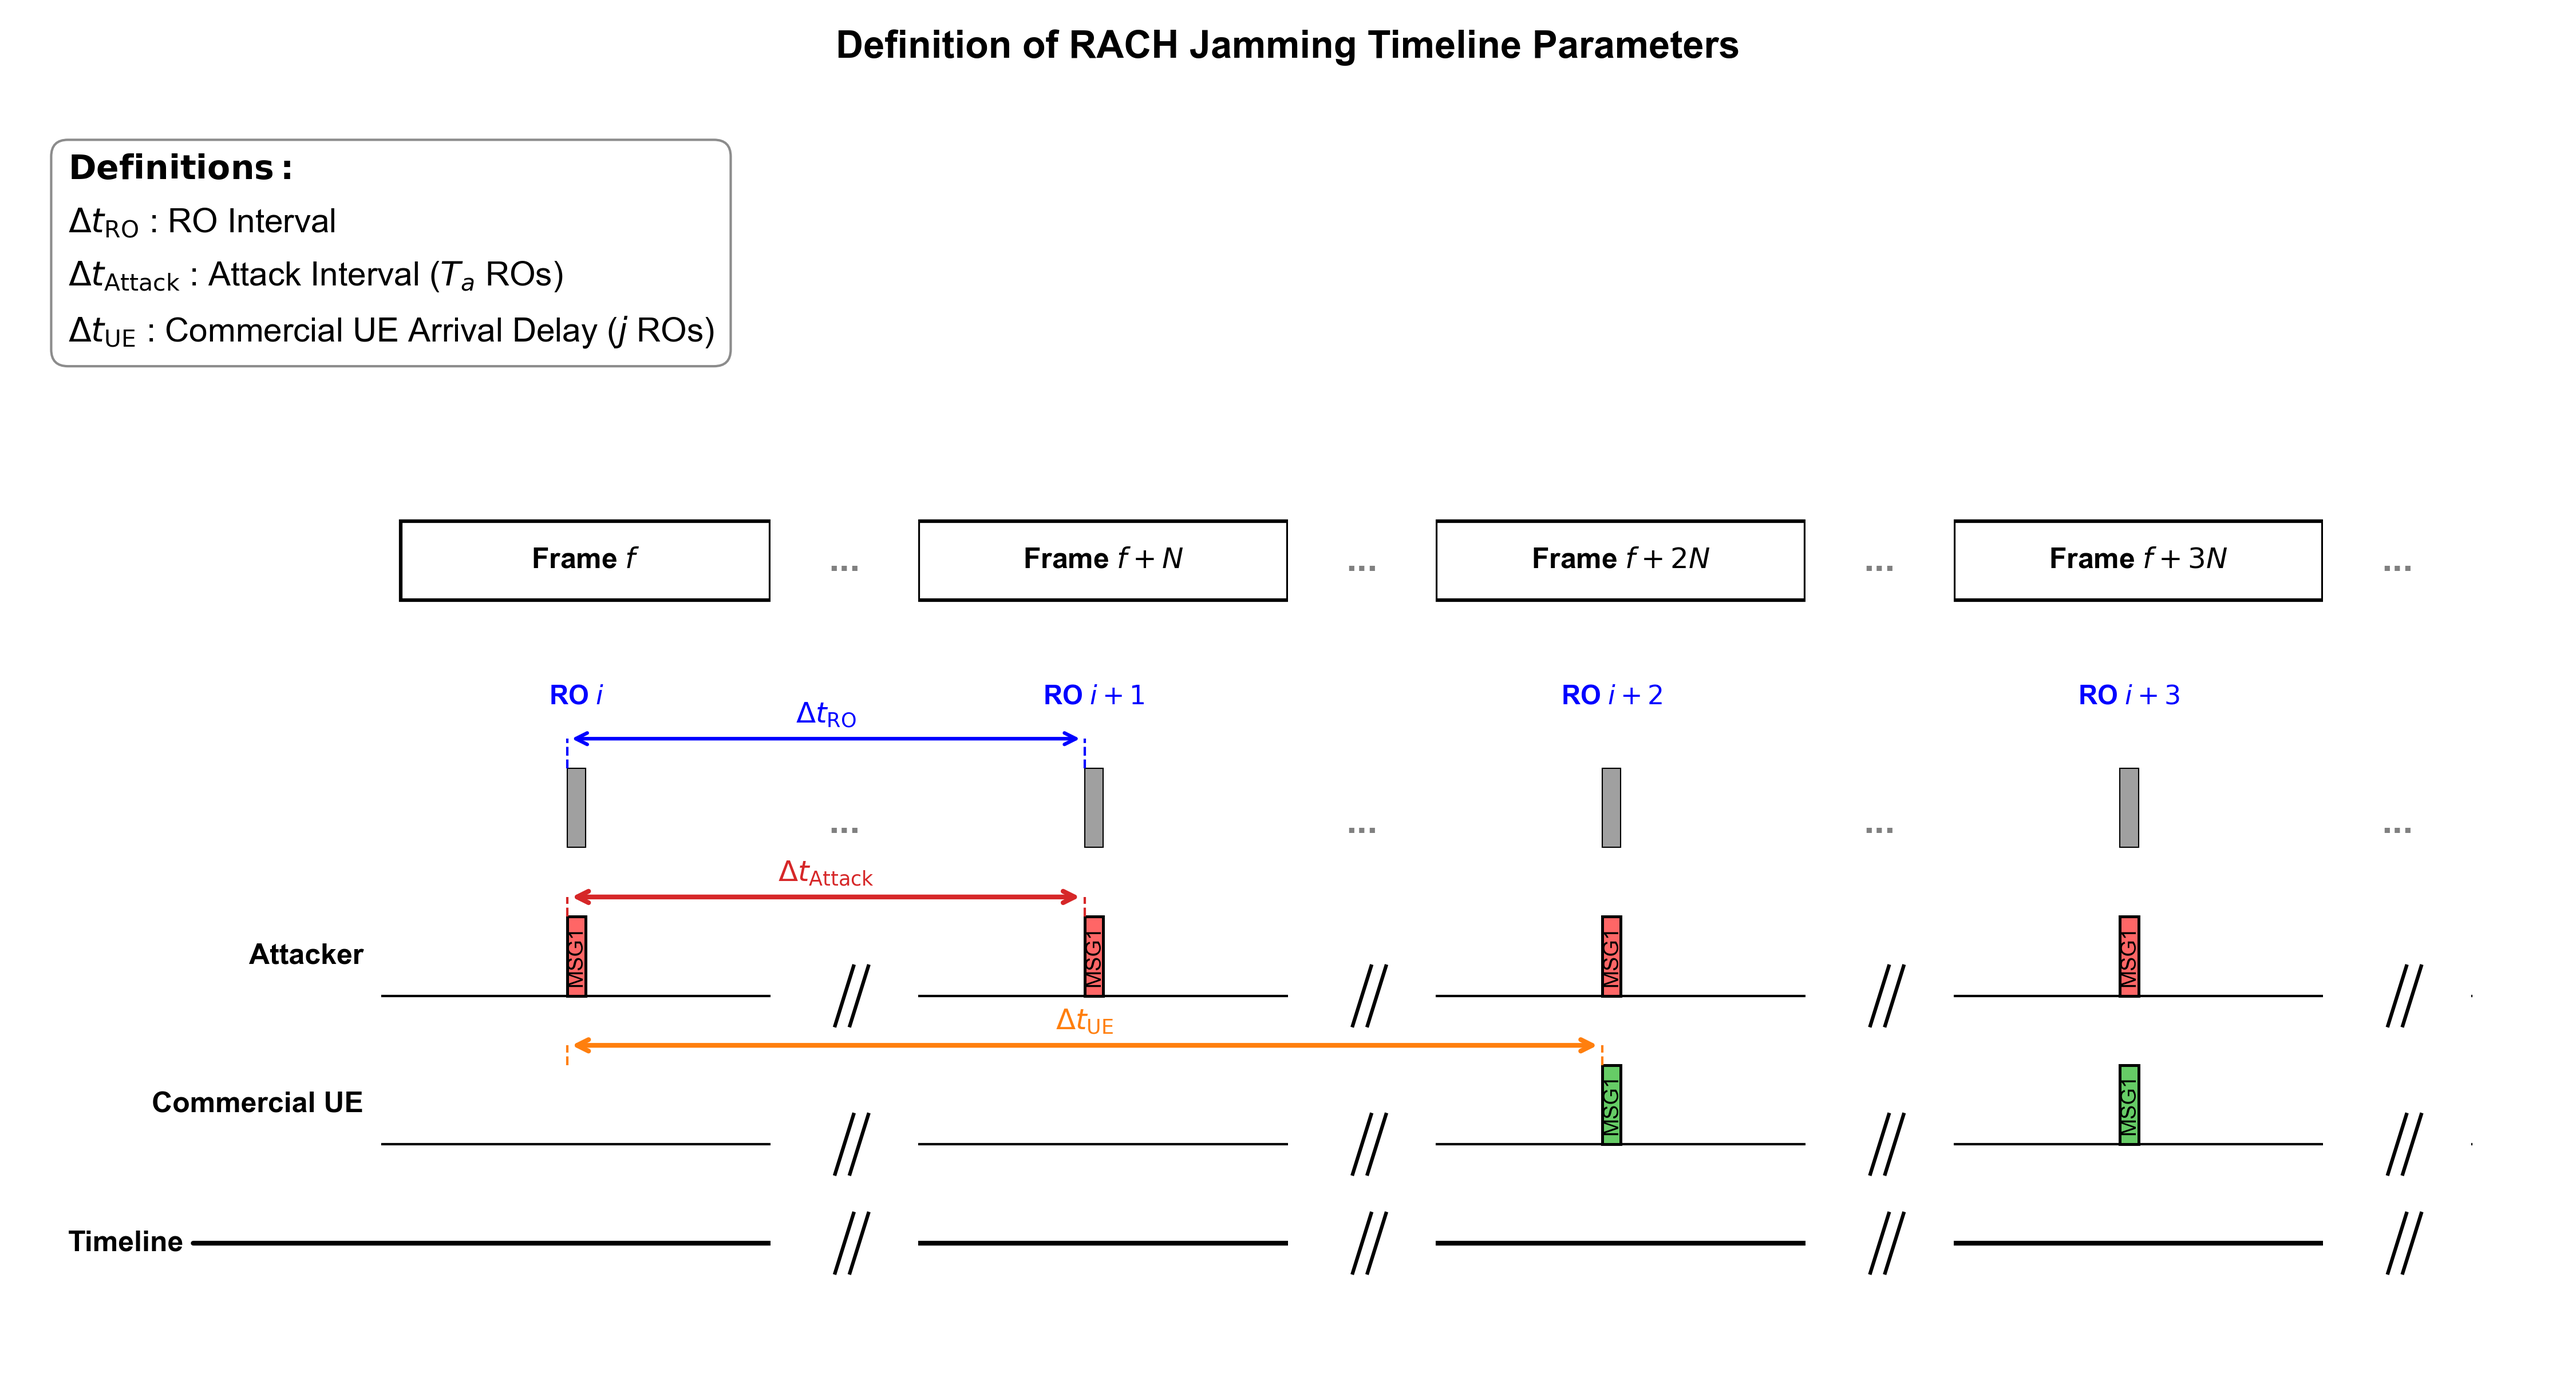
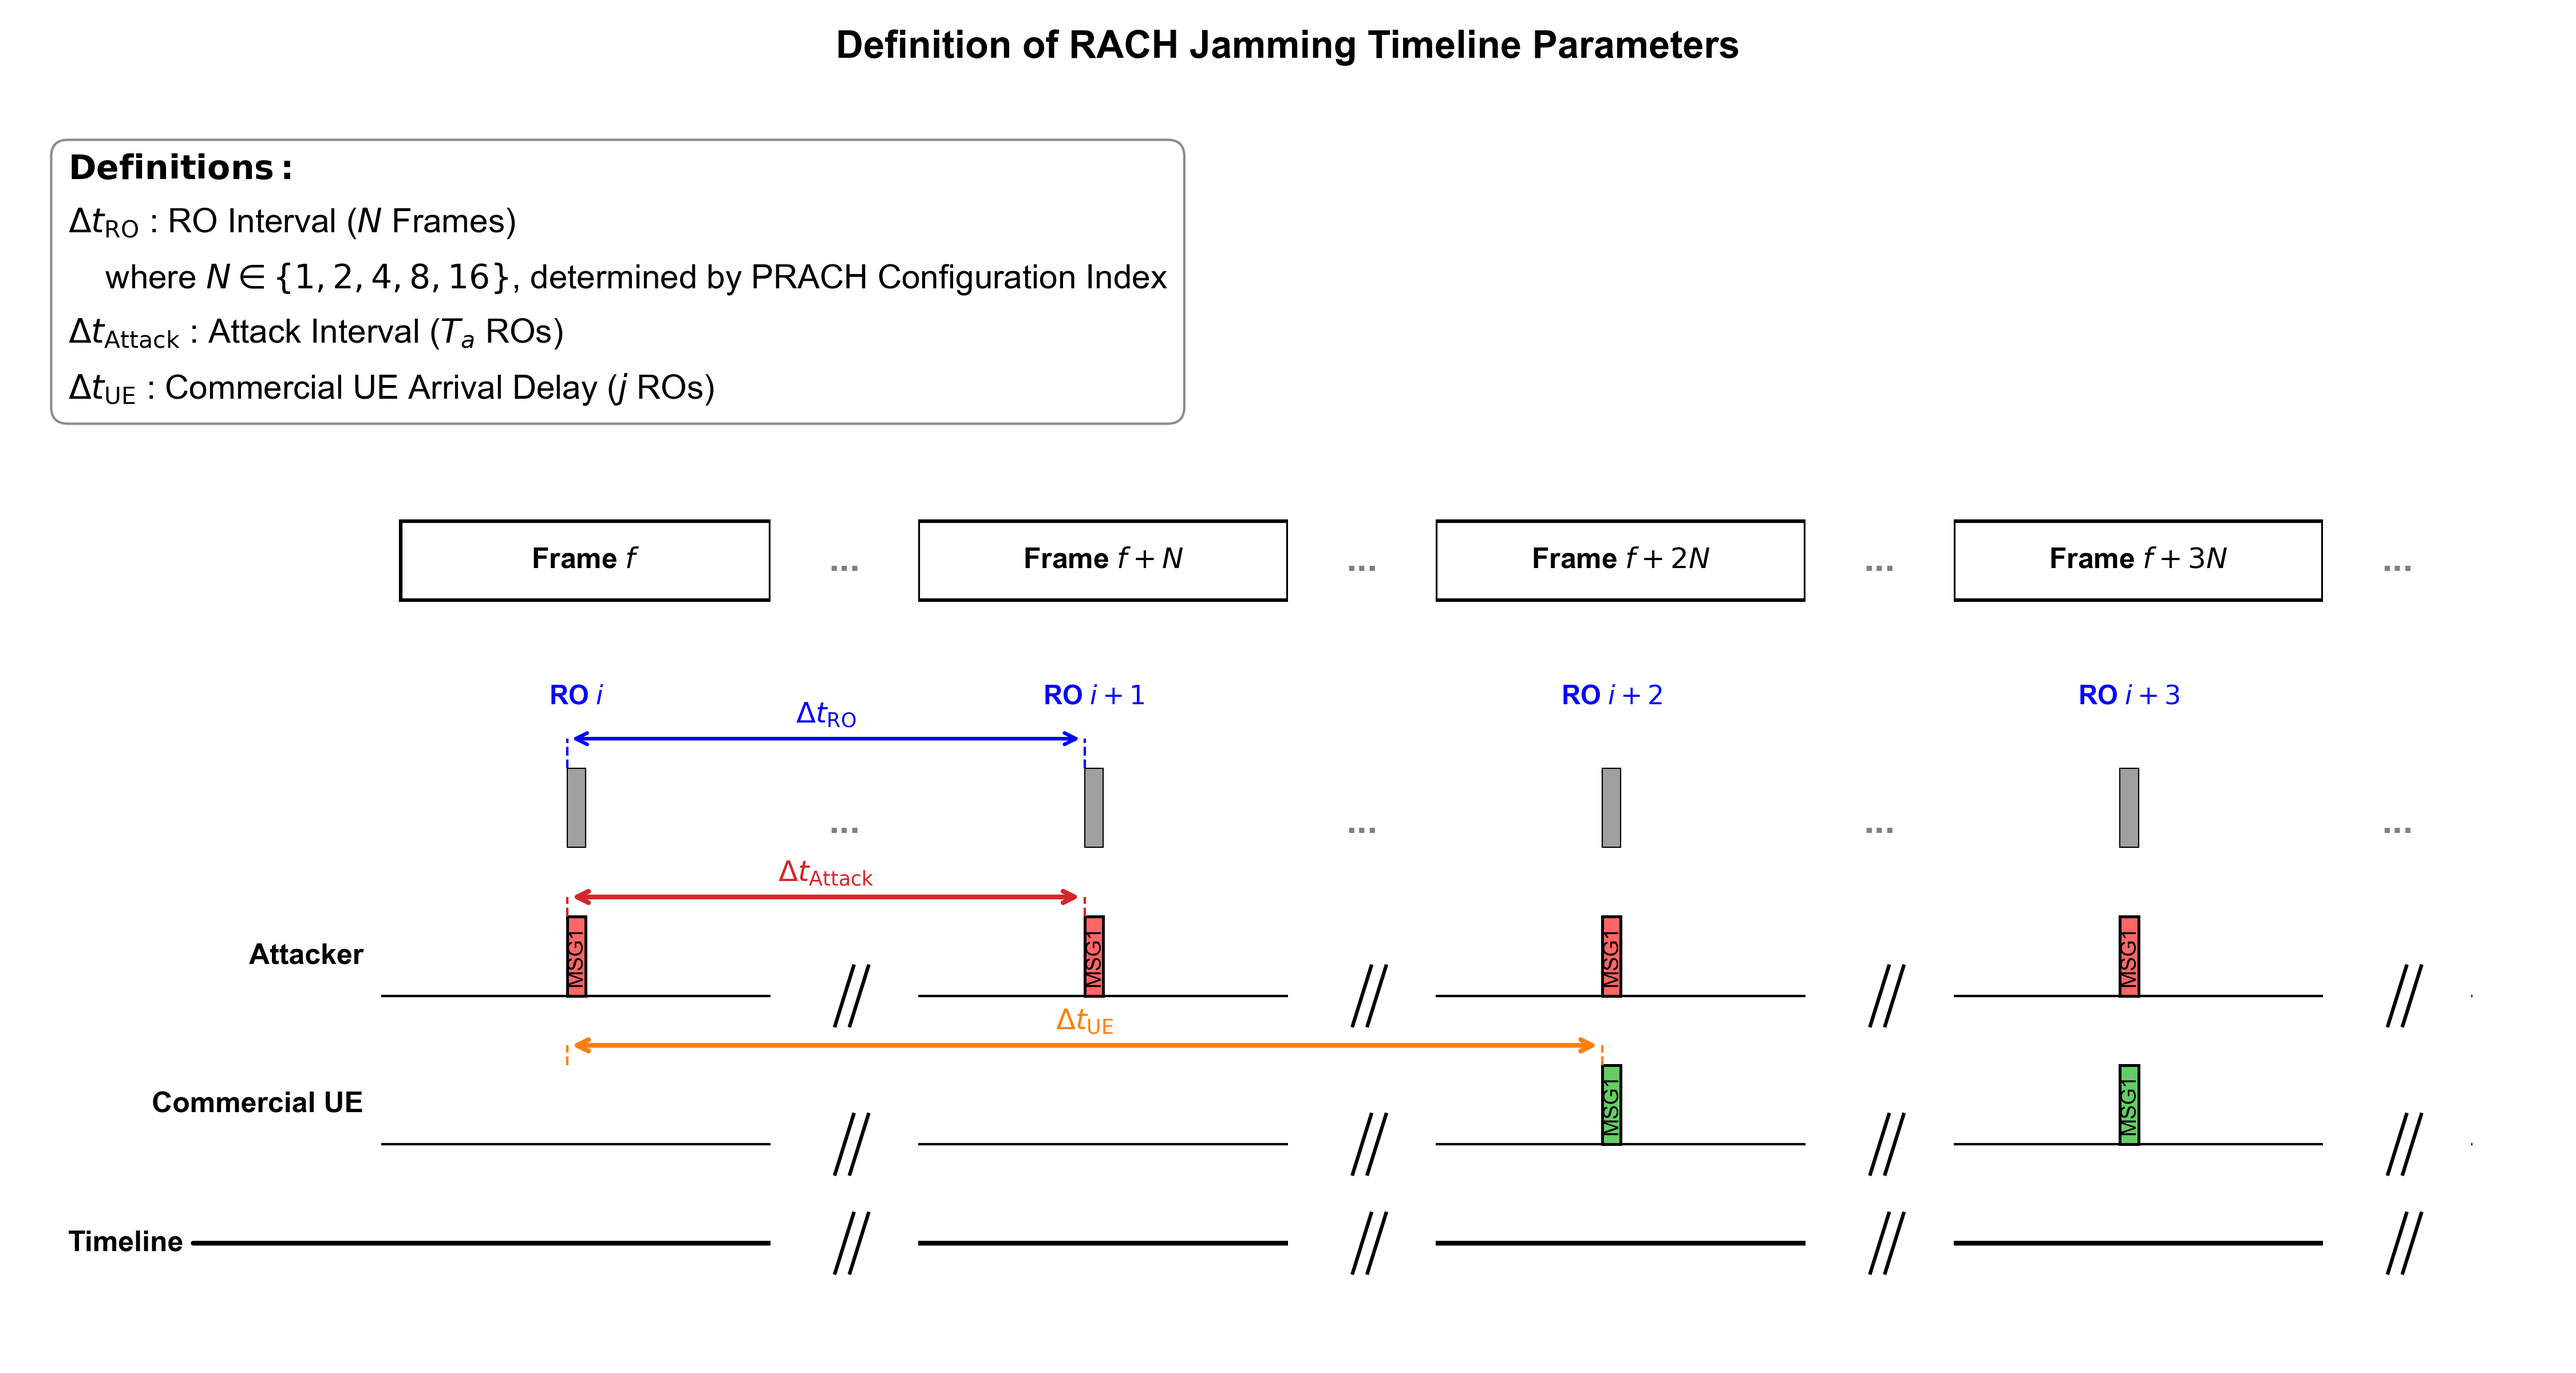
add: plot figure code 5

Changed region(s): [[0.0311, 0.1562, 0.4667, 0.3125]]

diff --git a/0408/RO-draw3.py b/0408/RO-draw3.py
@@ -1,0 +1,160 @@
+import matplotlib.pyplot as plt
+import matplotlib.patches as patches
+import numpy as np
+
+# 設置字體與樣式
+plt.rcParams['font.family'] = 'sans-serif'
+plt.rcParams['font.sans-serif'] = ['Arial', 'Liberation Sans']
+plt.rcParams['font.size'] = 12
+
+# --- 參數設定 ---
+display_ROs = 5  # 我們改為畫 5 個連續的 RO 塊
+ro_width = 1.0
+gap_width = 3.0  # RO 與 RO 之間的極小留白
+visual_stride = ro_width + gap_width
+
+# 預設繪圖內部依靠這些變數安排位置
+Ta = 1
+j = 2   
+
+fig, ax = plt.subplots(figsize=(10, 5))
+
+# ==========================================
+# 1. 繪製最上層：僅保留 RO 塊 (完全移除 Frame)
+# ==========================================
+y_slot = 3.0
+
+ro_positions_logical = []
+gap_centers = []
+
+for k in range(display_ROs):
+    visual_s = k * visual_stride
+    
+    # 計算這個 RO 右側 Gap 的中心點
+    cx = visual_s + ro_width + gap_width / 2
+    gap_centers.append(cx)
+    
+    # 畫出代表 RO 的方塊 (依需求加高至 1.2)
+    ax.add_patch(patches.Rectangle((visual_s, y_slot), ro_width, 1.2, facecolor='#a0a0a0', edgecolor='black', lw=1.0))
+    
+    # 依賴 UE 出現的設定作為原點 i，而不是左邊第一個框
+    i_index = k - j
+    ro_positions_logical.append((i_index, visual_s))
+    if i_index == 0:
+        ro_label = r'RO $i$'
+    elif i_index < 0:
+        ro_label = rf'RO $i-{abs(i_index)}$'
+    else:
+        ro_label = rf'RO $i+{i_index}$'
+        
+    ax.text(visual_s + ro_width/2, y_slot + 2.1, ro_label, 
+            ha='center', va='bottom', color='blue', fontweight='bold', fontsize=11)
+
+ro_logical_dict = {i: vis_s for i, vis_s in ro_positions_logical}
+
+# RO Interval annotation (以第一個和第二個塊為主)
+first_idx = -j
+next_idx = -j + 1
+if first_idx in ro_logical_dict and next_idx in ro_logical_dict:
+    pos_start = ro_logical_dict[first_idx]
+    pos_end = ro_logical_dict[next_idx]
+    # 箭頭標示推昇至方塊上方 (1.5)
+    ax.annotate('', xy=(pos_start, y_slot+1.5), xytext=(pos_end, y_slot+1.5),
+                arrowprops=dict(arrowstyle='<->', color='blue', lw=1.5))
+    ax.text((pos_start + pos_end)/2, y_slot+1.6, r'RO interval', 
+            ha='center', va='bottom', color='blue', fontweight='bold')
+    ax.plot([pos_start, pos_start], [y_slot+1.2, y_slot+1.5], ls='--', color='blue', lw=1)
+    ax.plot([pos_end, pos_end], [y_slot+1.2, y_slot+1.5], ls='--', color='blue', lw=1)
+
+# ==========================================
+# 2. 繪製 Attacker 排程 
+# ==========================================
+max_visual = (display_ROs - 1) * visual_stride + ro_width
+
+y_atk = 1.5
+# 第一底線 (Attacker)
+ax.plot([-1, max_visual + gap_width], [y_atk, y_atk], color='black', lw=1, zorder=1)
+ax.text(-2, y_atk+0.4, 'Attacker', ha='right', va='center', fontweight='bold', fontsize=12)
+
+# 攻擊者在 -j 首次出現後，每隔 Ta 送出一次
+atk_indices = [i for i in ro_logical_dict.keys() if i >= -j and (i - (-j)) % Ta == 0]
+for i in atk_indices:
+    if i in ro_logical_dict:
+        vis_s = ro_logical_dict[i]
+        ax.add_patch(patches.Rectangle((vis_s, y_atk), ro_width, 0.8, facecolor='#ff6666', edgecolor='black', lw=1.2))
+        ax.text(vis_s + ro_width/2, y_atk + 0.4, 'MSG1', ha='center', va='center', fontsize=9, rotation=90)
+
+if -j in ro_logical_dict and (-j + Ta) in ro_logical_dict:
+    pos1 = ro_logical_dict[-j]
+    pos2 = ro_logical_dict[-j + Ta]
+    ax.annotate('', xy=(pos1, y_atk+1.0), xytext=(pos2, y_atk+1.0),
+                arrowprops=dict(arrowstyle='<->', color='#d62728', lw=2))
+    ax.text((pos1+pos2)/2, y_atk+1.1, r'$\Delta t_{\mathrm{Attack}}$', ha='center', va='bottom', color='#d62728', fontweight='bold')
+    ax.plot([pos1, pos1], [y_atk+0.8, y_atk+1.0], ls='--', color='#d62728', lw=1)
+    ax.plot([pos2, pos2], [y_atk+0.8, y_atk+1.0], ls='--', color='#d62728', lw=1)
+
+# ==========================================
+# 3. 繪製 UE 排程 
+# ==========================================
+y_ue = 0.0
+# 第二底線 (UE)
+ax.plot([-1, max_visual + gap_width], [y_ue, y_ue], color='black', lw=1, zorder=1)
+ax.text(-2, y_ue+0.4, 'Commercial UE', ha='right', va='center', fontweight='bold', fontsize=12)
+
+# UE 在 0 出現後，後續的每個 RO 也都會有送出 MSG1
+ue_indices = [i for i in ro_logical_dict.keys() if i >= 0]
+for i in ue_indices:
+    if i in ro_logical_dict:
+        vis_s = ro_logical_dict[i]
+        ax.add_patch(patches.Rectangle((vis_s, y_ue), ro_width, 0.8, facecolor='#66cc66', edgecolor='black', lw=1.2))
+        ax.text(vis_s + ro_width/2, y_ue + 0.4, 'MSG1', ha='center', va='center', fontsize=9, rotation=90)
+
+if -j in ro_logical_dict and 0 in ro_logical_dict:
+    pos0 = ro_logical_dict[-j]
+    pos_j = ro_logical_dict[0]
+    ax.annotate('', xy=(pos0, y_ue+1.0), xytext=(pos_j, y_ue+1.0),
+                arrowprops=dict(arrowstyle='<->', color='#ff7f0e', lw=2))
+    ax.text((pos0+pos_j)/2, y_ue+1.1, r'$\Delta t_{\mathrm{UE}}$', ha='center', va='bottom', color='#ff7f0e', fontweight='bold')
+    ax.plot([pos0, pos0], [y_ue+0.8, y_ue+1.0], ls='--', color='#ff7f0e', lw=1)
+    ax.plot([pos_j, pos_j], [y_ue+0.8, y_ue+1.0], ls='--', color='#ff7f0e', lw=1)
+
+# ==========================================
+# 4. 圖表美化
+# ==========================================
+ax.set_xlim(-6, max_visual + gap_width + 2)
+# 把頂部推高一點點避免藍色的 i 標籤吃緊
+ax.set_ylim(-2.0, 5.5)
+
+y_time = -1.0
+
+# -----------------
+# 繪製 Gap Slashes (//) 及 ...
+# -----------------
+# 遍歷所有的 gap 中心 cx 
+for cx in gap_centers:
+    # 遮罩線條背景的白底，寬度設為稍微覆蓋
+    ax.add_patch(patches.Rectangle((cx - 1.5, -2.0), 3.0, 7.5, facecolor='white', edgecolor='none', zorder=2))
+    
+    # 在 RO 層，加入 ...
+    # 配合高度 1.2，將 ... 推移到 Y=0.6 處
+    ax.text(cx, y_slot + 0.6, '...', ha='center', va='center', fontweight='bold', color='gray', fontsize=16, zorder=3)
+
+    # 在連續橫線的地方 (UE底線、Attacker底線、時間軸) 加入 //
+    for level in [y_ue, y_atk, y_time]:
+        h = 0.2
+        d = 0.4
+        ax.plot([cx - d, cx + d], [level - h, level + h], color='black', lw=1.5, zorder=3)
+        ax.plot([cx - d + 0.6, cx + d + 0.6], [level - h, level + h], color='black', lw=1.5, zorder=3)
+
+# Time axis (箭頭延伸跨過最後一個 ...)
+final_cx = gap_centers[-1]
+# 文字起點拉近設定在 x = -5
+ax.annotate('Time', xy=(final_cx + 1, y_time), xytext=(-5, y_time),
+            arrowprops=dict(arrowstyle='->', color='black', lw=2), ha='left', va='center', fontweight='bold', zorder=1)
+
+ax.axis('off')
+plt.title('Definition of RACH Jamming Timeline Parameters', fontweight='bold', pad=20, fontsize=16)
+
+plt.tight_layout()
+plt.savefig('RO-draw3_corrected.png', dpi=300)
+plt.show()

diff --git a/0408/RO-draw2.py b/0408/RO-draw2.py
@@ -139,9 +139,10 @@ ax.set_ylim(-2.0, 10.5)
 # 加入各個變數的定義說明
 def_text = (
     r"$\mathbf{Definitions:}$" + "\n"
-    r"$\Delta t_{\mathrm{RO}}$ : RO Interval" + "\n"
-    r"$\Delta t_{\mathrm{Attack}}$ : Attack Interval ($T_a$ ROs)" + "\n"
-    r"$\Delta t_{\mathrm{UE}}$ : Commercial UE Arrival Delay ($j$ ROs)"
+    r"$\Delta t_{\mathrm{RO}}$ : RO Interval ($N$ Frames)" + "\n"
+    r"    where $N \in \{1, 2, 4, 8, 16\}$, determined by PRACH Configuration Index" + "\n"
+    r"$\Delta t_{\mathrm{Attack}}$ : Attack Interval" + "\n"
+    r"$\Delta t_{\mathrm{UE}}$ : Commercial UE Arrival Delay"
 )
 props = dict(boxstyle='round,pad=0.5', facecolor='white', alpha=0.9, edgecolor='gray')
 ax.text(-18, 10.0, def_text, fontsize=14, linespacing=1.8, va='top', ha='left', bbox=props, zorder=5)
@@ -168,7 +169,7 @@ for cx in gap_centers:
 
 # Time axis (箭頭延伸跨過最後一個 ...)
 final_cx = gap_centers[-1]
-ax.annotate('Timeline', xy=(final_cx + 3, y_time), xytext=(-18, y_time),
+ax.annotate('Time', xy=(final_cx + 3, y_time), xytext=(-18, y_time),
             arrowprops=dict(arrowstyle='->', color='black', lw=2), va='center', fontweight='bold', zorder=1)
 
 ax.axis('off')
